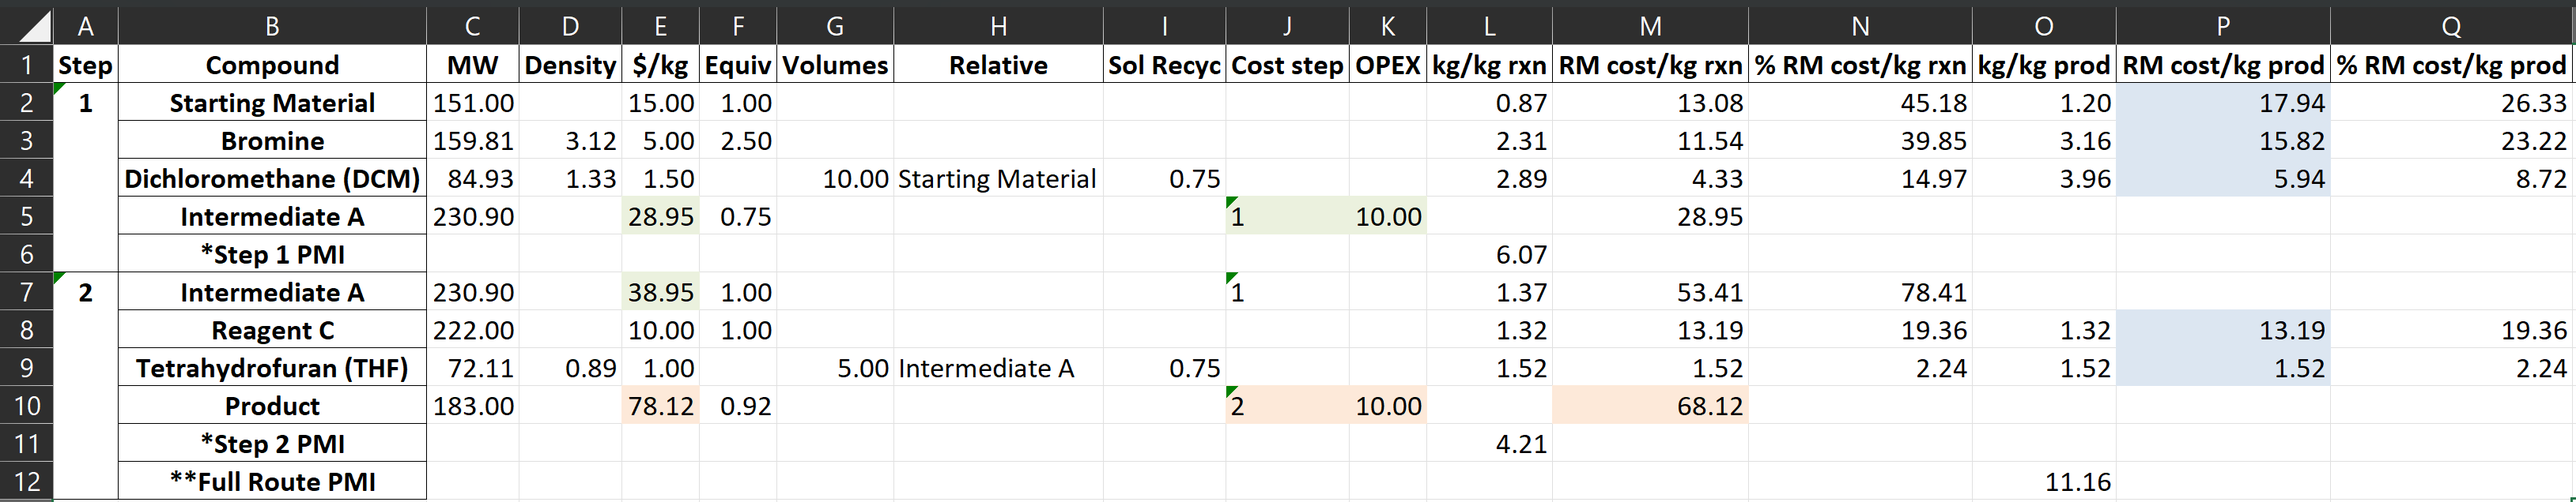
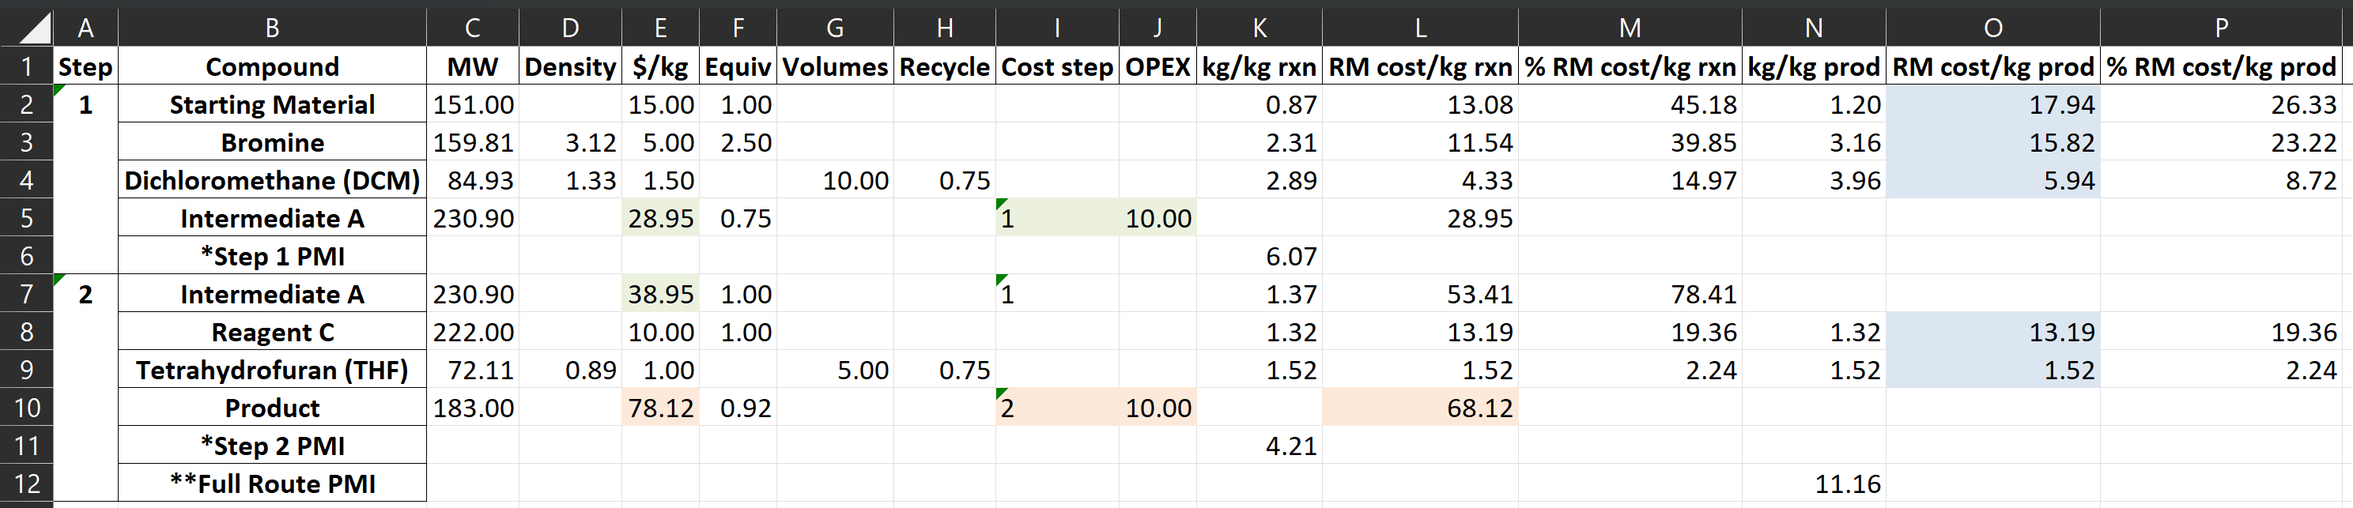
Update Interpretation document

diff --git a/docs/interpret_results.rst b/docs/interpret_results.rst
@@ -17,21 +17,38 @@ transferred unchanged from the input file.)
 Calculated RMCs
 ---------------
 
-Columns A-K are translated directly from the input tables with one important
-exception; the *$/kg* values for the two reaction products (cells E5, E7, and
-E10) are now the total raw material costs (RMCs) for those two compounds. The
-RMC for the route is $54.41/kg, which is the value for the overall product of
-the route (cell E10). All three of these cells are fully dynamic because they
-are stored in the cell as equations rather than hard-coded values. So changes
-in other parts of the worksheet should cause these values to be recalculated.
-(Keep in mind, though, that the original input file and this new output file
-are not connected in any way, so changes here will not be reflected in the
-input file.)
+Columns A-H (and J, if :ref:`OPEX was used <OPEXinput>`) are translated
+directly from the input tables with one important exception; the *$/kg* values
+for the two reaction products (cells E5, E7, and E10) are now the total raw
+material costs (RMCs) for those two compounds. The RMC for the route is
+$54.41/kg, which is the value for the overall product of the route (cell E10).
+All three of these cells are fully dynamic because they are stored in the cell
+as equations rather than hard-coded values. So changes in other parts of the
+worksheet should cause these values to be recalculated.  (Keep in mind,
+though, that the original input file and this new output file are not
+connected in any way, so changes here will not be reflected in the input
+file.)
+
+New Column Descriptions
+-----------------------
+
+Cost Step Column
+________________
+
+A new column named "Cost step" has been added to this output. This column
+simply defines the reaction connectivity matrix. The values here are "Step"
+column values where the costs of particular materials are calculated. This is
+used by the *costcalc* algorithm to determine which reactions need to be used
+for calculating RMCs. Use this column to troubleshoot any unusual behavior in
+the costing output; otherwise, this column can be removed for clarity. A
+common error here may be if a reaction product is not the final compound in
+any particular reaction. The "Cost step" matrix is determined assuming that
+the final reaction compound is the product. 
 
 Per kg Rxn Columns
-------------------
+__________________
 
-The values in Excel columns L-N are per 1 kg of *reaction* product, in that
+The values in Excel columns K-M are per 1 kg of *reaction* product, in that
 they should be interpreted on a per reaction basis and not for the entire
 route. Brief descriptions of these columns are below.
 
@@ -52,9 +69,9 @@ route. Brief descriptions of these columns are below.
   reaction, these values should add up to 100%. 
 
 Per kg Prod Columns
--------------------
+___________________
 
-The values in Excel columns O-Q are per 1 kg of *route* product, so these
+The values in Excel columns N-P are per 1 kg of *route* product, so these
 values should be interpreted for the entire route. Brief descriptions of these
 columns are below.
 
@@ -82,20 +99,22 @@ intensity (PMI) for each reaction (rows 6 and 11) and the overall route (row
 of product. This is a common metric for process waste, as larger PMI values
 can be interpreted as more materials being used, and potentially wasted, to
 create 1 kg of product. A "perfect" PMI is 1, which means that 1 kg of
-material was used to make 1 kg of product. These values are shown in different
-columns because the per reaction PMI is calculated from the *kg/kg rxn* data,
-whereas the per route PMI is calculated from the *kg/kg prod* data. 
+material was used to make 1 kg of product, for example a gas-phase
+polymerization may be expected to have a PMI close to 1.  These values are
+shown in different columns because the per reaction PMI is calculated from the
+*kg/kg rxn* data, whereas the per route PMI is calculated from the *kg/kg
+prod* data. 
 
 .. note:: 
    
    The PMI calculations as implemented by *costcalc* may not be strictly
-   correct, because the solvent recycling is factored into the calculation.
-   The final PMI here only considers solvent masses that go to waste (are not
+   correct, because compound recycling is factored into the calculation.  The
+   final PMI here only considers compound masses that go to waste (are not
    recycled), whereas a true PMI may not always consider recycling. To get
-   these PMI values, you can simply set the solvent recycling parameters ("Sol
-   Recyc" column) to zero for all solvents, and the Excel file will
-   recalculate the PMI parameters. These all-solvent PMI values will likely be
-   dominated by solvent usage, though.
+   these PMI values, you can simply set the recycling parameters ("Recycle"
+   column) to zero for all compounds, and the Excel file will recalculate the
+   PMI parameters. Without recycling solvents, the PMI will likely be
+   dominated by these materials, though.
 
 .. _OPEX:
 
@@ -121,10 +140,10 @@ based on intermediate utilization and reaction yield in subsequent steps. This
 will be demonstrated below. 
 
 The OPEX is handled a little differently for the final product of the route,
-as highlighted in red. In that case, the OPEX is added directly to the final product
-RMC in the *$/kg* column (cell E10). This can be see by comparing the *RM
-cost/kg rxn* for the final product (cell M10), which is the raw materials-only
-value and the *$/kg* value (cell E10). 
+as highlighted in red. In that case, the OPEX is added directly to the final
+product RMC in the *$/kg* column (cell E10). This can be see by comparing the
+*RM cost/kg rxn* for the final product (cell L10), which is the raw
+materials-only value and the *$/kg* value (cell E10). 
 
 Separating the contribution of the OPEX costs from the raw materials is
 relatively straightforward. The sum of the *RM cost/kg prod* column
